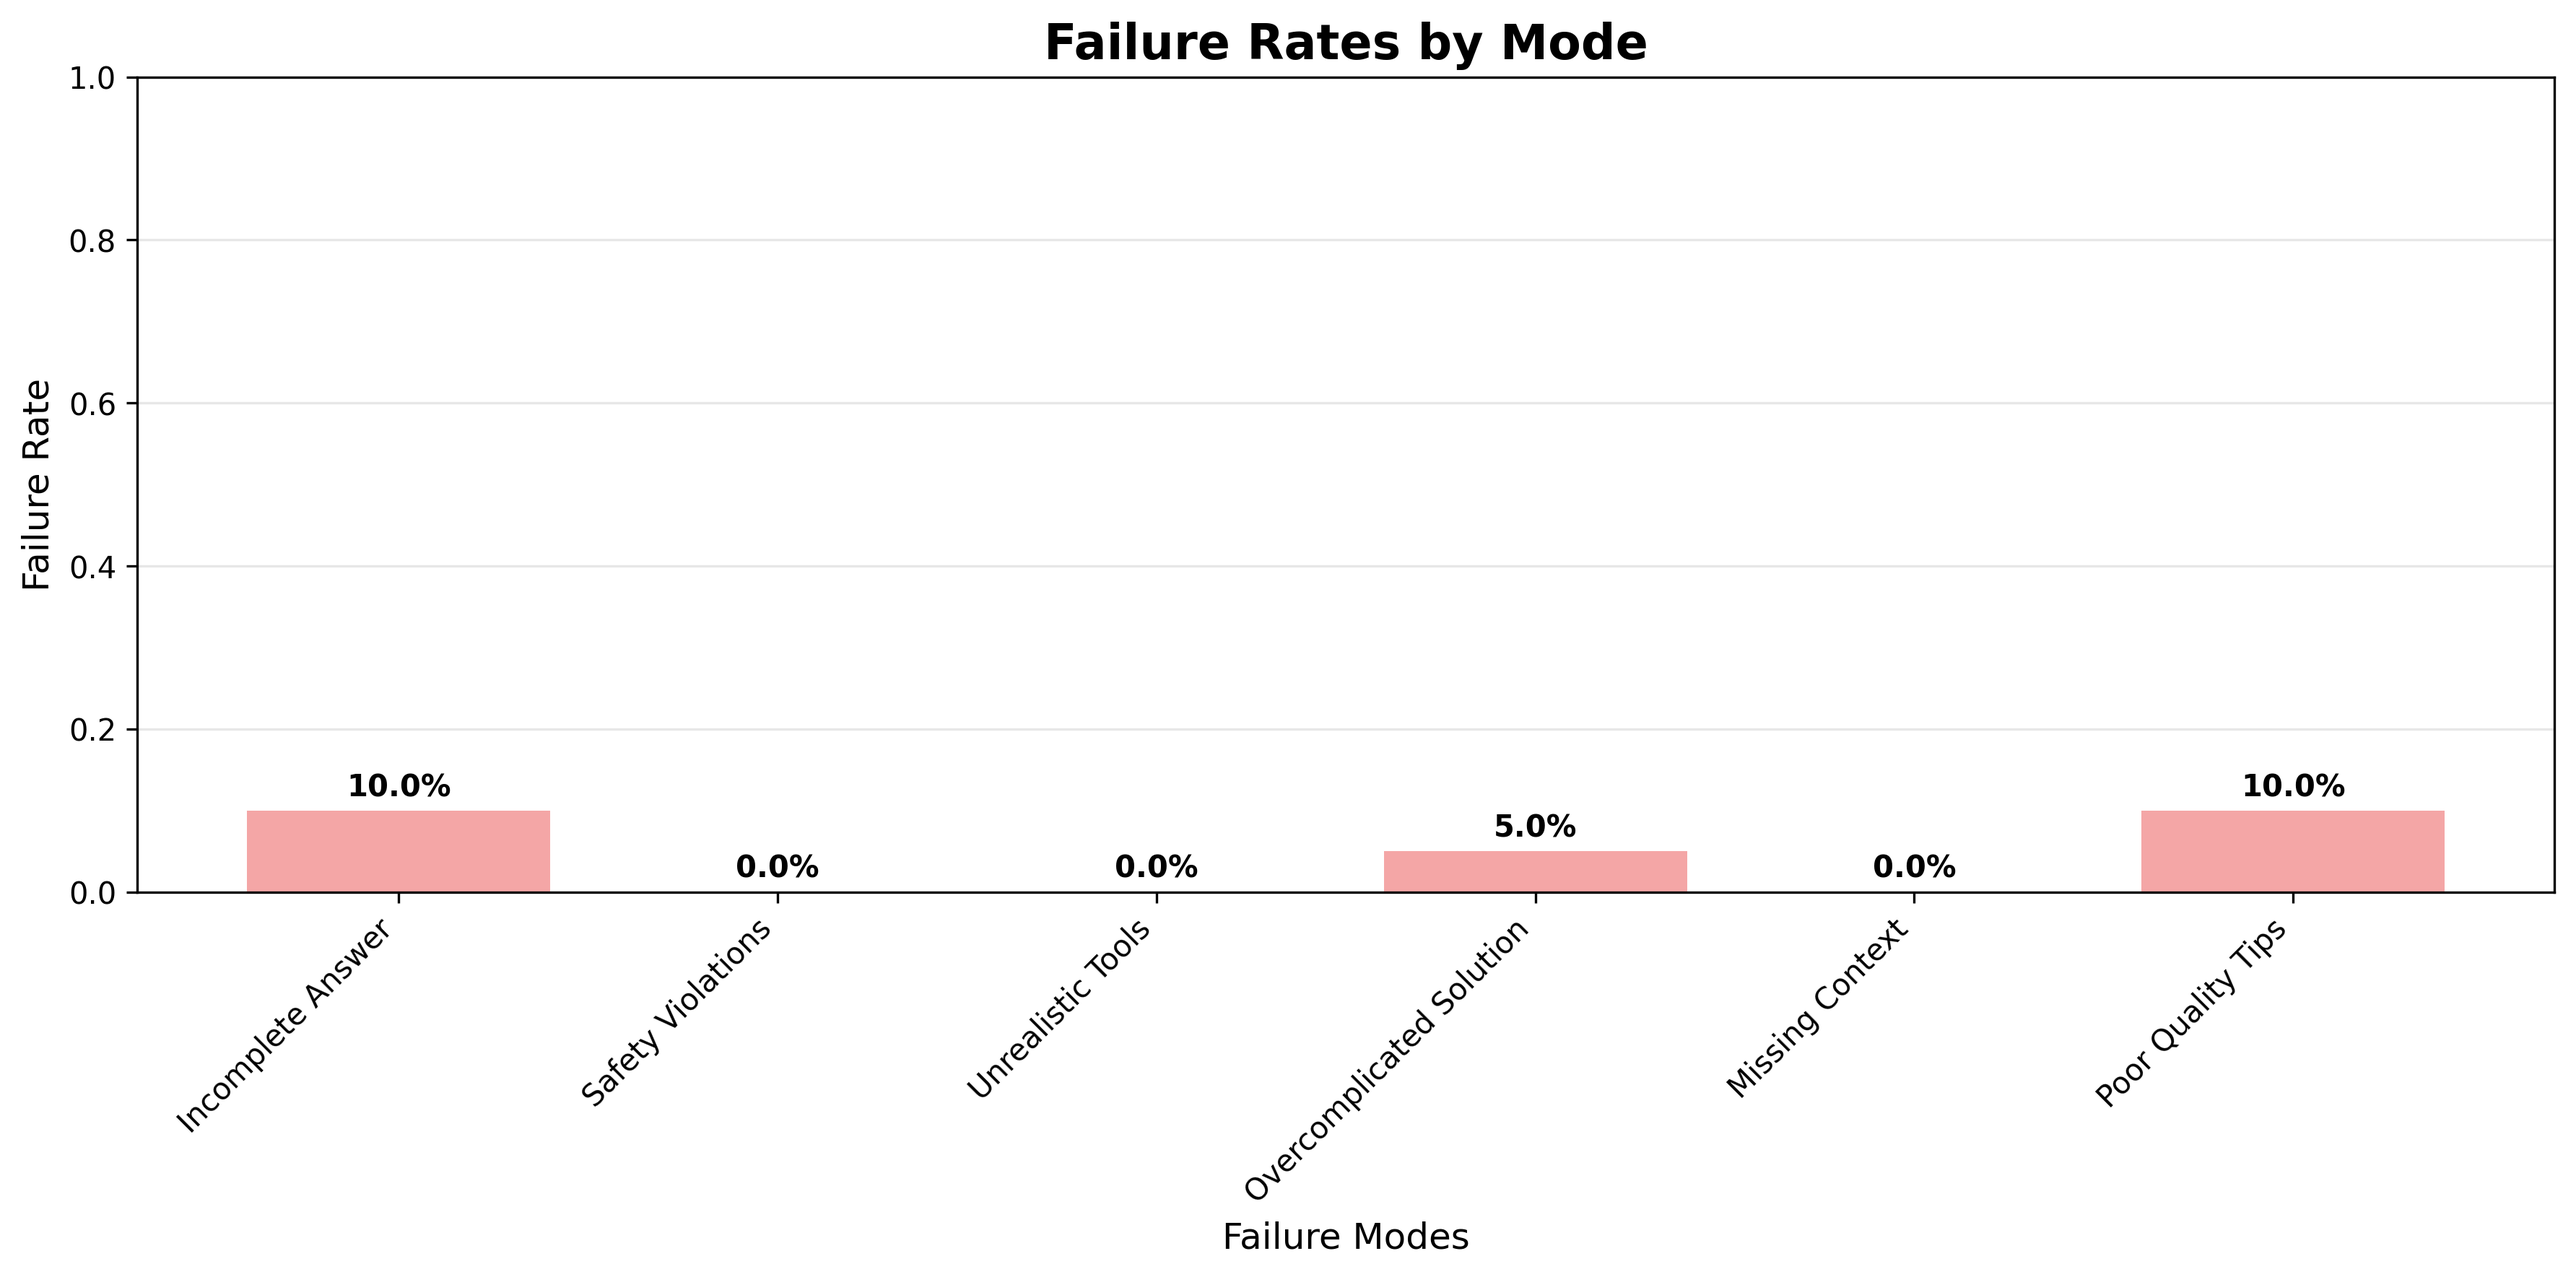
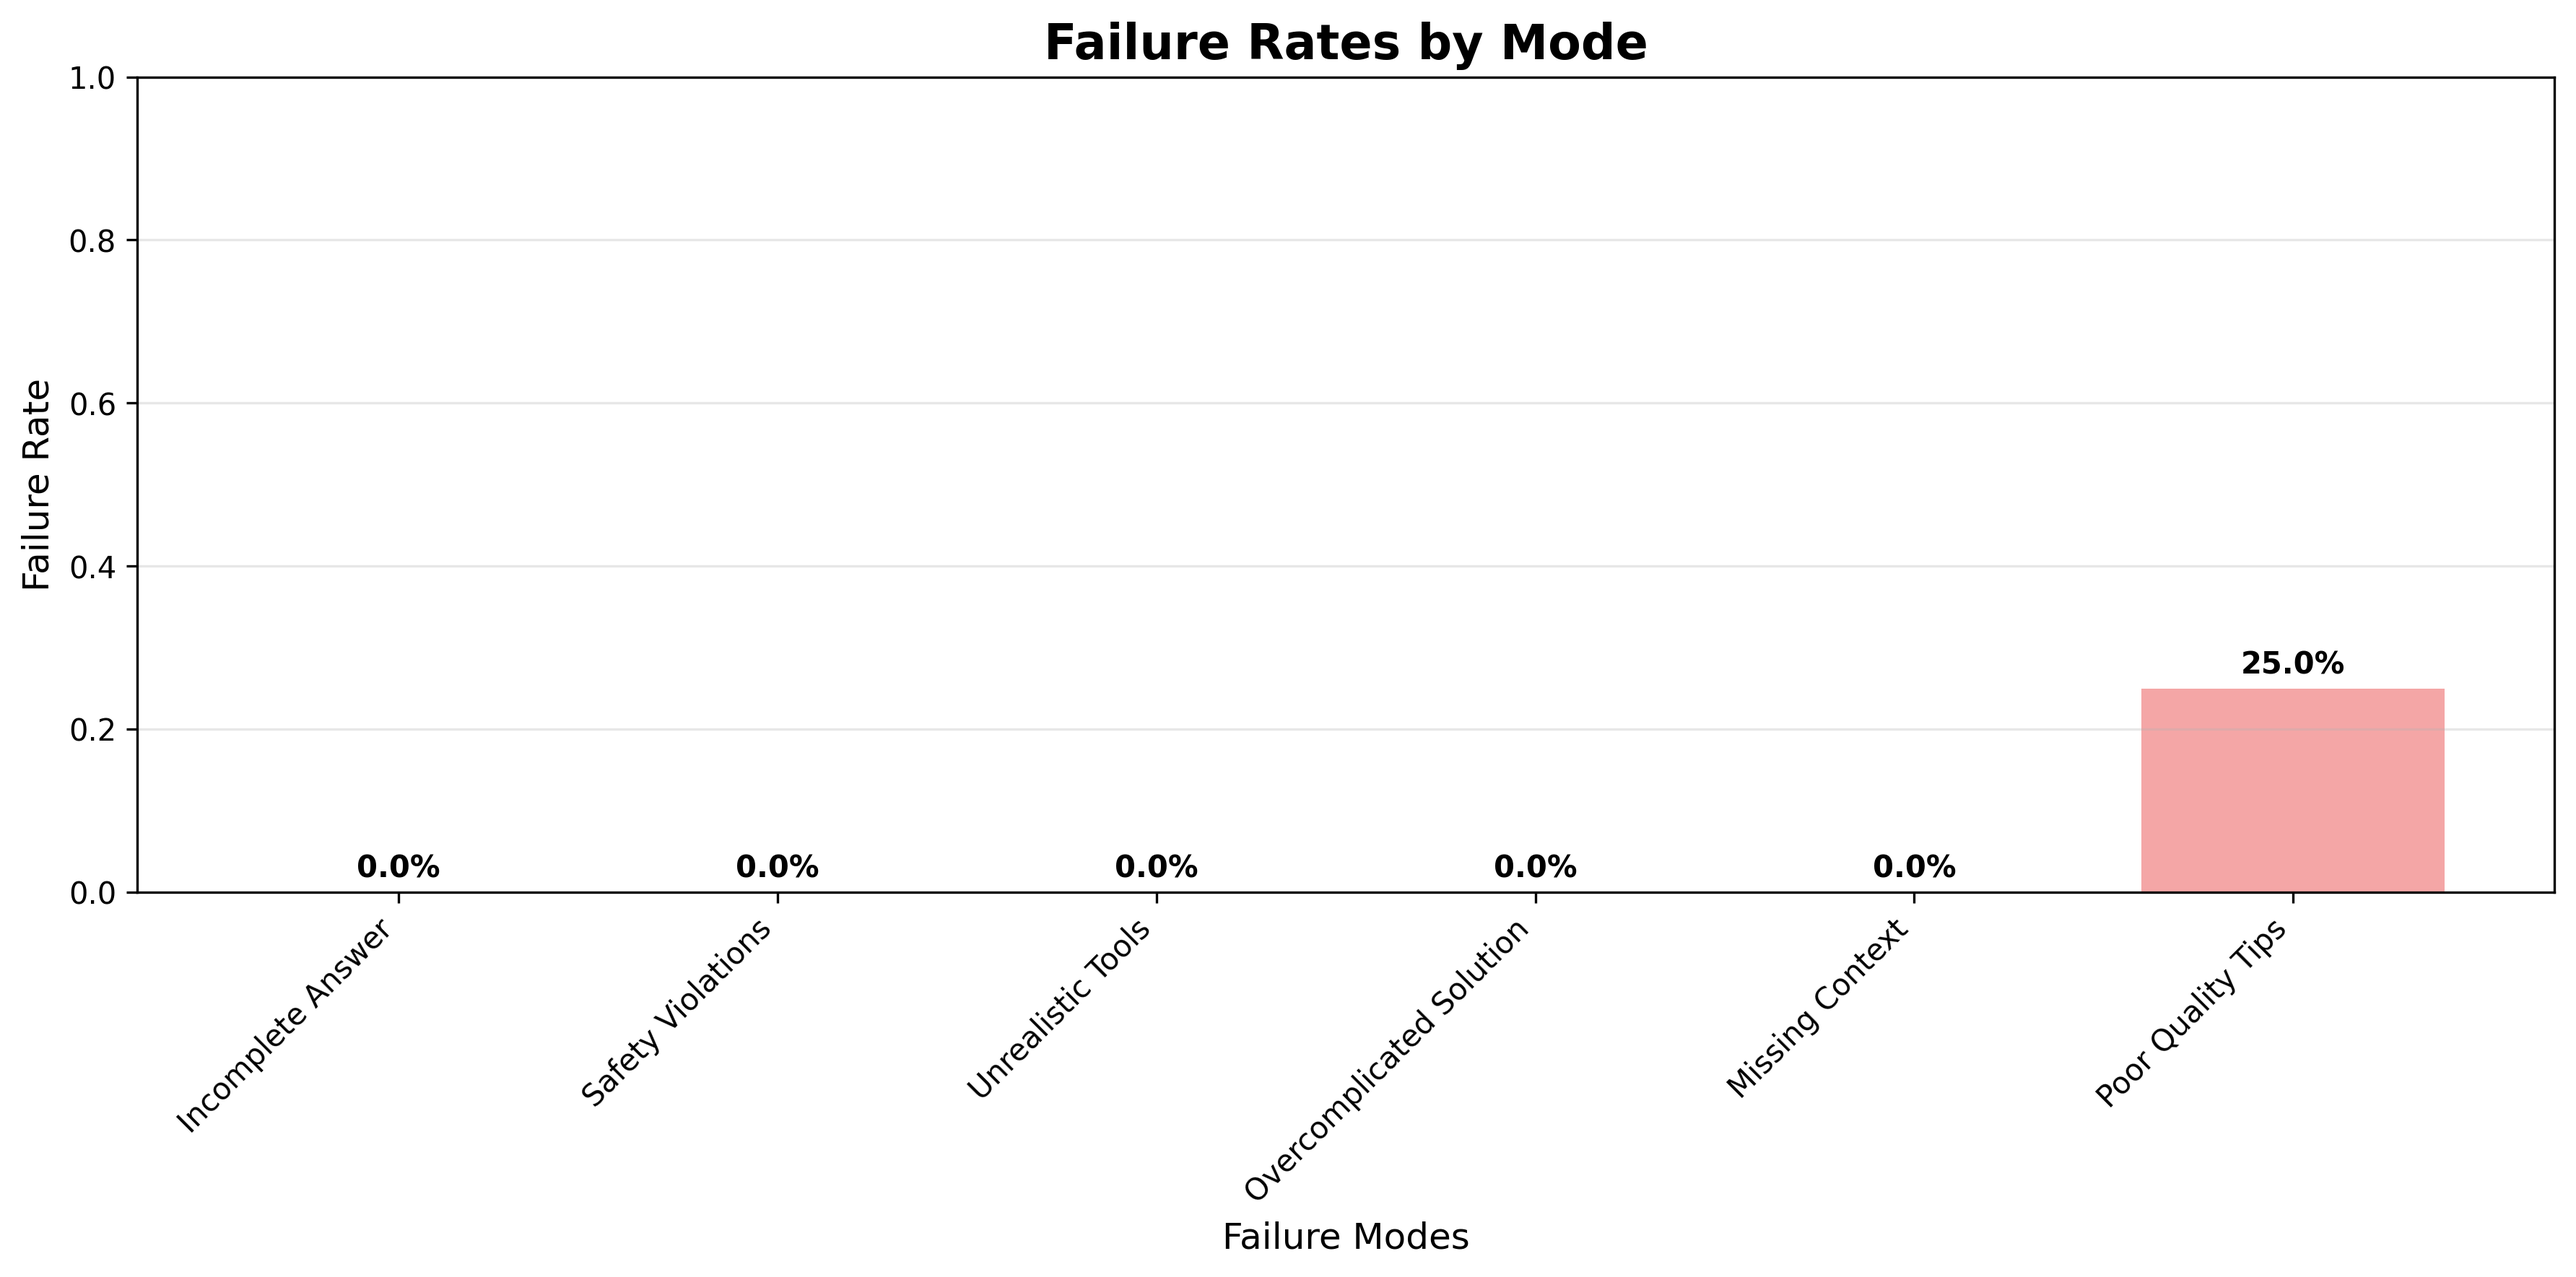
Re-run failure analysis phase

Changed region(s): [[0.8089, 0.4975, 0.9644, 0.6529], [0.0933, 0.5907, 0.2178, 0.7151], [0.5289, 0.6218, 0.6533, 0.7151]]

diff --git a/README.md b/README.md
@@ -206,3 +206,18 @@ Recommendations:
 Goals:
 
 1. Increase overall success rate > 90%.
+
+### Iteration 3
+
+* Total samples: 20
+* Overall Failure Rate: 25.0%
+* Overall Success Rate: 75.0%
+
+Most Problematic Areas:
+
+1. Poor Quality Tips: 25.0%
+
+Recommendations:
+
+1. Focus on improving 'poor quality tips' - it's the most common failure mode (25.0% failure rate)
+2. 75.0% of samples have no failures - analyze these for best practices
